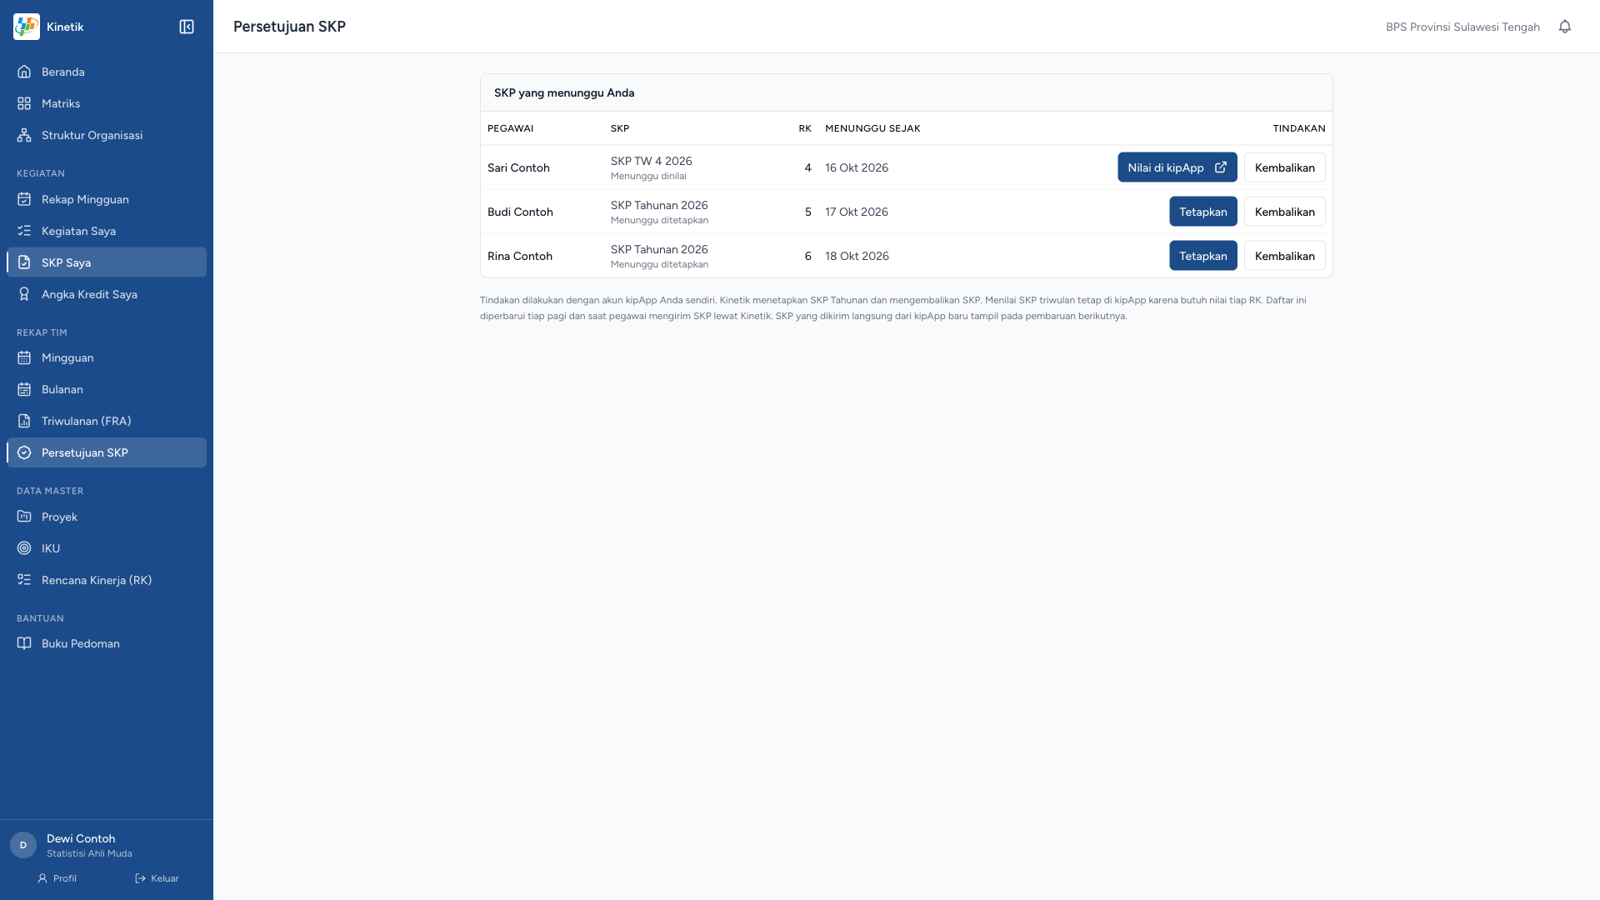
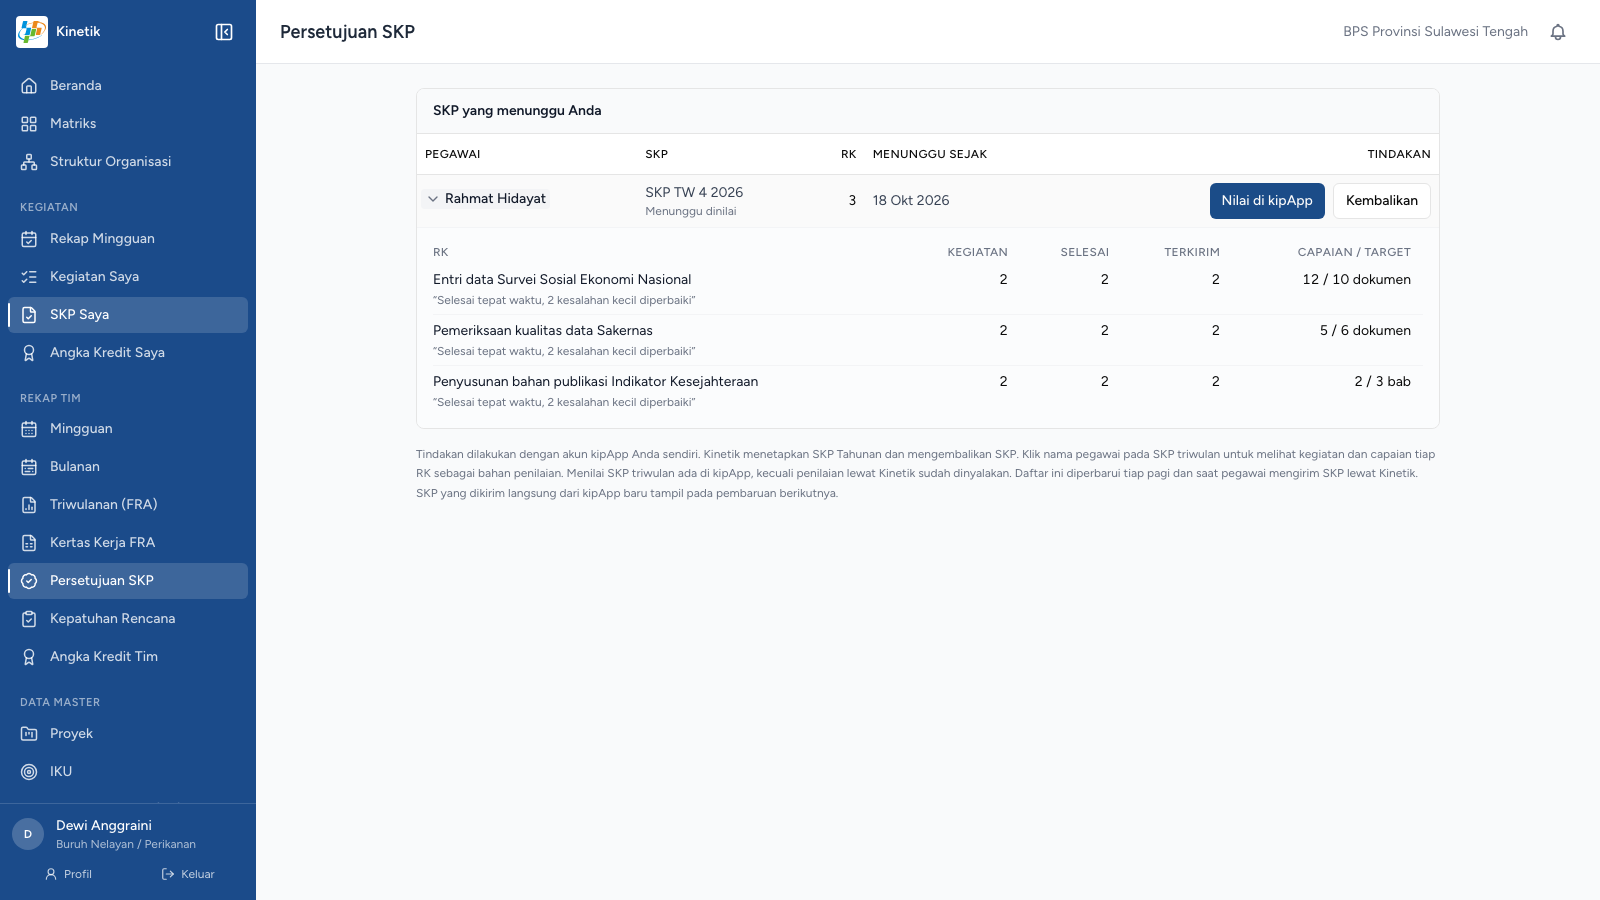
Persetujuan SKP shows evidence per RK; new slide for the Nilai SKP page that is not turned on yet

diff --git a/components/shotData.ts b/components/shotData.ts
@@ -546,11 +546,23 @@ export const shots: Record<string, ShotDef> = {
         "src": "/shots/skp-persetujuan.png",
         "url": "kinetik.bpssulteng.id (contoh data)",
         "steps": [
-            {"n": 1, "x": 6.7, "y": 50.3, "text": "Menu Persetujuan SKP. Untuk pimpinan, atasan para PJ."},
-            {"n": 2, "x": 29.5, "y": 10.3, "text": "Hanya SKP yang atasannya Anda dan sedang menunggu."},
-            {"n": 3, "x": 73.6, "y": 18.6, "text": "SKP triwulan dinilai di kipApp, karena butuh nilai tiap RK."},
-            {"n": 4, "x": 75.2, "y": 23.5, "text": "Tetapkan SKP Tahunan, dengan akun kipApp atasan sendiri."},
-            {"n": 5, "x": 80.3, "y": 23.5, "text": "Kembalikan ke pegawai. SKP kembali ke Sedang dibuat."}
+            {"n": 1, "x": 30.3, "y": 22.0, "text": "Klik nama pegawai pada SKP triwulan untuk membuka bahan penilaian."},
+            {"n": 2, "x": 35.1, "y": 31.0, "text": "Tiap RK: jumlah kegiatan, yang selesai dan yang terkirim ke kipApp."},
+            {"n": 3, "x": 84.8, "y": 28.0, "text": "Capaian dibanding target, dengan satuan."},
+            {"n": 4, "x": 35.3, "y": 33.3, "text": "Catatan capaian yang ditulis pegawai."},
+            {"n": 5, "x": 79.2, "y": 22.2, "text": "Menilai masih di kipApp. Halaman Nilai di Kinetik sudah ada tetapi belum dinyalakan."}
+        ]
+    },
+    "skp-nilai": {
+        "src": "/shots/skp-nilai.png",
+        "url": "kinetik.bpssulteng.id (contoh data, belum dinyalakan)",
+        "steps": [
+            {"n": 1, "x": 43.8, "y": 20.7, "text": "Bahan penilaian dari Kinetik ada di halaman yang sama dengan form nilai."},
+            {"n": 2, "x": 81.4, "y": 54.4, "text": "Nilai 0 sampai 100 untuk tiap RK."},
+            {"n": 3, "x": 80.9, "y": 58.2, "text": "Tingkat muncul sendiri: 99 ke atas di atas ekspektasi, 80 sampai 98 sesuai, di bawah 80 di bawah ekspektasi."},
+            {"n": 4, "x": 54.1, "y": 59.1, "text": "Umpan balik, boleh dikosongkan."},
+            {"n": 5, "x": 81.4, "y": 61.9, "text": "Simpan: nilai langsung masuk ke kipApp dengan akun atasan."},
+            {"n": 6, "x": 36.6, "y": 98.3, "text": "Tujuh perilaku BerAKHLAK dinilai dengan cara yang sama, lalu Selesai menilai."}
         ]
     },
     "skp-pj": {

diff --git a/components/SkpLifecycle.vue b/components/SkpLifecycle.vue
@@ -10,7 +10,7 @@ const steps: Array<{ n: number; who: string; title: string; text: string; tool: 
     { n: 4, who: 'Anggota', title: 'SKP triwulan dibuat', text: 'Buat SKP TW, centang RK. Terbuka setelah SKP Tahunan ditetapkan.', tool: 'Kinetik', test: 'belum' },
     { n: 5, who: 'Anggota', title: 'Kegiatan', text: 'Rencana mingguan, kirim ke kipApp, tandai selesai, kirim ke atasan.', tool: 'Kinetik', test: 'teruji' },
     { n: 6, who: 'Anggota', title: 'SKP dikirim untuk dinilai', text: 'SKP Saya, Kirim untuk dinilai. Bisa dibatalkan sebelum dinilai.', tool: 'Kinetik', test: 'teruji' },
-    { n: 7, who: 'Atasan', title: 'Penilaian', text: 'Nilai tiap RK dan perilaku, lalu Dinilai.', tool: 'kipApp', test: null },
+    { n: 7, who: 'Atasan', title: 'Penilaian', text: 'Nilai tiap RK dan perilaku, lalu Dinilai. Halaman di Kinetik siap, belum dinyalakan.', tool: 'Kinetik atau kipApp', test: 'belum' },
     { n: 8, who: 'Kinetik', title: 'Angka Kredit', text: 'Dihitung sebagai estimasi dari predikat SKP yang sudah Dinilai.', tool: 'Kinetik', test: null },
 ];
 </script>

diff --git a/pages/26a-pimpinan-persetujuan-skp.md b/pages/26a-pimpinan-persetujuan-skp.md
@@ -6,9 +6,9 @@
 
 <!--
 Selain memantau, pimpinan sebagai atasan juga punya halaman Persetujuan SKP. Datanya contoh.
-[click] Menunya ada di Rekap Tim, untuk pimpinan dan siapa pun yang menjadi atasan.
-[click] Daftarnya hanya SKP yang atasannya kita dan sedang menunggu. Pimpinan mendapat notifikasi saat pegawai mengirim SKP lewat Kinetik.
-[click] SKP triwulan yang menunggu dinilai punya tombol Nilai di kipApp. Penilaian butuh nilai tiap RK dan perilaku, jadi tetap dikerjakan di kipApp.
-[click] SKP Tahunan bisa ditetapkan dengan satu tombol, memakai akun kipApp pimpinan sendiri. Kinetik bertanya dulu.
-[click] Atau dikembalikan ke pegawai, yang membuat SKP kembali ke Sedang dibuat. Pegawai mendapat notifikasi untuk keduanya. Tetapkan dan Kembalikan untuk SKP Tahunan mengikuti kode kipApp dan belum kami uji langsung, karena semua SKP Tahunan kantor ini sudah ditetapkan.
+[click] Pada SKP triwulan, klik nama pegawai membuka bahan penilaian. Atasan tidak lagi menilai tanpa melihat apa yang dikerjakan.
+[click] Tiap RK menunjukkan jumlah kegiatan, berapa yang selesai, dan berapa yang sudah terkirim ke kipApp.
+[click] Di sebelahnya capaian dibanding target, lengkap dengan satuan.
+[click] Di bawah nama RK ada catatan capaian yang ditulis pegawai. Semua ini dari Kinetik, bukan dari kipApp.
+[click] Menilai masih lewat kipApp. Halaman Nilai di Kinetik sudah dibuat, tetapi belum dinyalakan. SKP Tahunan bisa ditetapkan dengan satu tombol memakai akun kipApp pimpinan, atau dikembalikan ke pegawai. Keduanya mengikuti kode kipApp dan belum kami uji langsung, karena semua SKP Tahunan kantor ini sudah ditetapkan.
 -->

diff --git a/pages/26c-pimpinan-nilai-skp.md b/pages/26c-pimpinan-nilai-skp.md
@@ -1,0 +1,16 @@
+# Pimpinan: menilai SKP triwulan dari Kinetik
+
+<span v-click="1"></span><span v-click="2"></span><span v-click="3"></span><span v-click="4"></span><span v-click="5"></span><span v-click="6"></span>
+
+<Shot id="skp-nilai" :clicks="$clicks" />
+
+<!--
+Ini halaman Nilai SKP, sudah dibuat tetapi sengaja belum dinyalakan. Datanya contoh.
+[click] Bahan penilaian dari Kinetik tampil di atas form, jadi atasan menilai sambil melihat kegiatan dan capaian.
+[click] Nilai 0 sampai 100 untuk tiap RK.
+[click] Tingkat muncul sendiri mengikuti tabel kipApp: 99 ke atas di atas ekspektasi, 80 sampai 98 sesuai ekspektasi, di bawah 80 di bawah ekspektasi. Untuk perilaku batasnya 91 dan 80.
+[click] Umpan balik boleh dikosongkan.
+[click] Simpan mengirim nilai ke kipApp dengan akun atasan. Satu baris, satu simpan.
+[click] Tujuh perilaku BerAKHLAK dinilai sama. Tombol Selesai menilai baru aktif setelah semua RK dan perilaku punya nilai, lalu SKP menjadi Dinilai.
+Kenapa belum dinyalakan: ini nilai resmi seseorang, dan kami baru menguji pembacaan datanya, belum penulisannya. Kami ingin menyalakannya bersama atasan pada SKP pertama yang mereka nilai, jadi kalau ada yang berbeda dari kipApp, kami tahu sebelum menyentuh nilai orang lain.
+-->

diff --git a/pages/26b-alur-skp-dari-awal-tahun.md b/pages/26b-alur-skp-dari-awal-tahun.md
@@ -12,6 +12,6 @@ Ini seluruh perjalanan SKP, dari awal tahun sampai angka kredit. Abu-abu artinya
 [click] Keempat, setelah SKP Tahunan ditetapkan, anggota membuat SKP triwulan dan memilih RK-nya. Kalau lupa, Kinetik membuatnya sendiri saat mengirim kegiatan.
 [click] Kelima, kegiatan. Rencana mingguan dikirim ke kipApp, ditandai selesai, lalu dikirim ke atasan. Ini sudah diuji langsung.
 [click] Keenam, SKP triwulan dikirim untuk dinilai dari SKP Saya, dan masih bisa dibatalkan sebelum dinilai. Ini juga sudah diuji langsung.
-[click] Ketujuh, atasan menilai tiap RK dan perilaku di kipApp. Penilaian tetap di kipApp karena butuh nilai tiap RK.
+[click] Ketujuh, atasan menilai tiap RK dan perilaku di kipApp. Penilaian saat ini di kipApp. Halaman Nilai di Kinetik sudah dibuat dan menunggu dinyalakan bersama atasan.
 [click] Kedelapan, setelah SKP berstatus Dinilai, Kinetik menghitung angka kredit sebagai estimasi dari predikatnya.
 -->

diff --git a/slides.md b/slides.md
@@ -157,6 +157,10 @@ src: ./pages/26a-pimpinan-persetujuan-skp.md
 ---
 
 ---
+src: ./pages/26c-pimpinan-nilai-skp.md
+---
+
+---
 src: ./pages/27-semua-peran-struktur-organisasi.md
 ---
 
